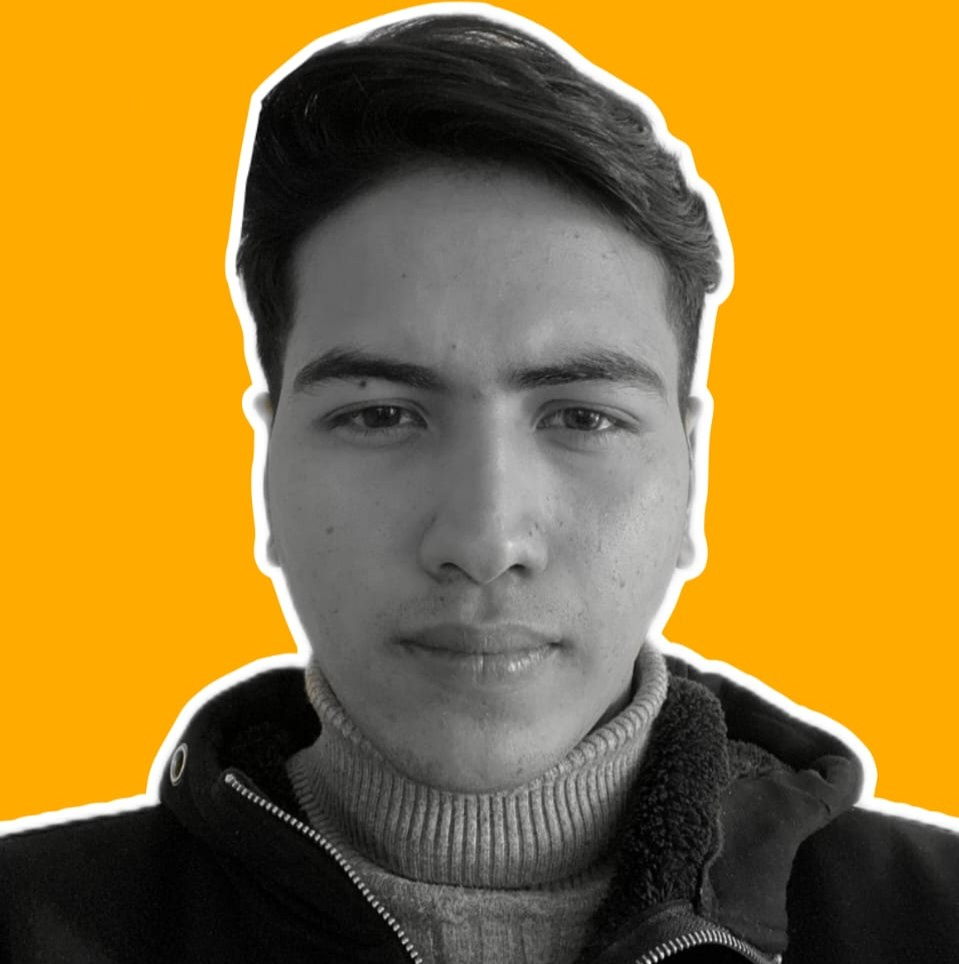
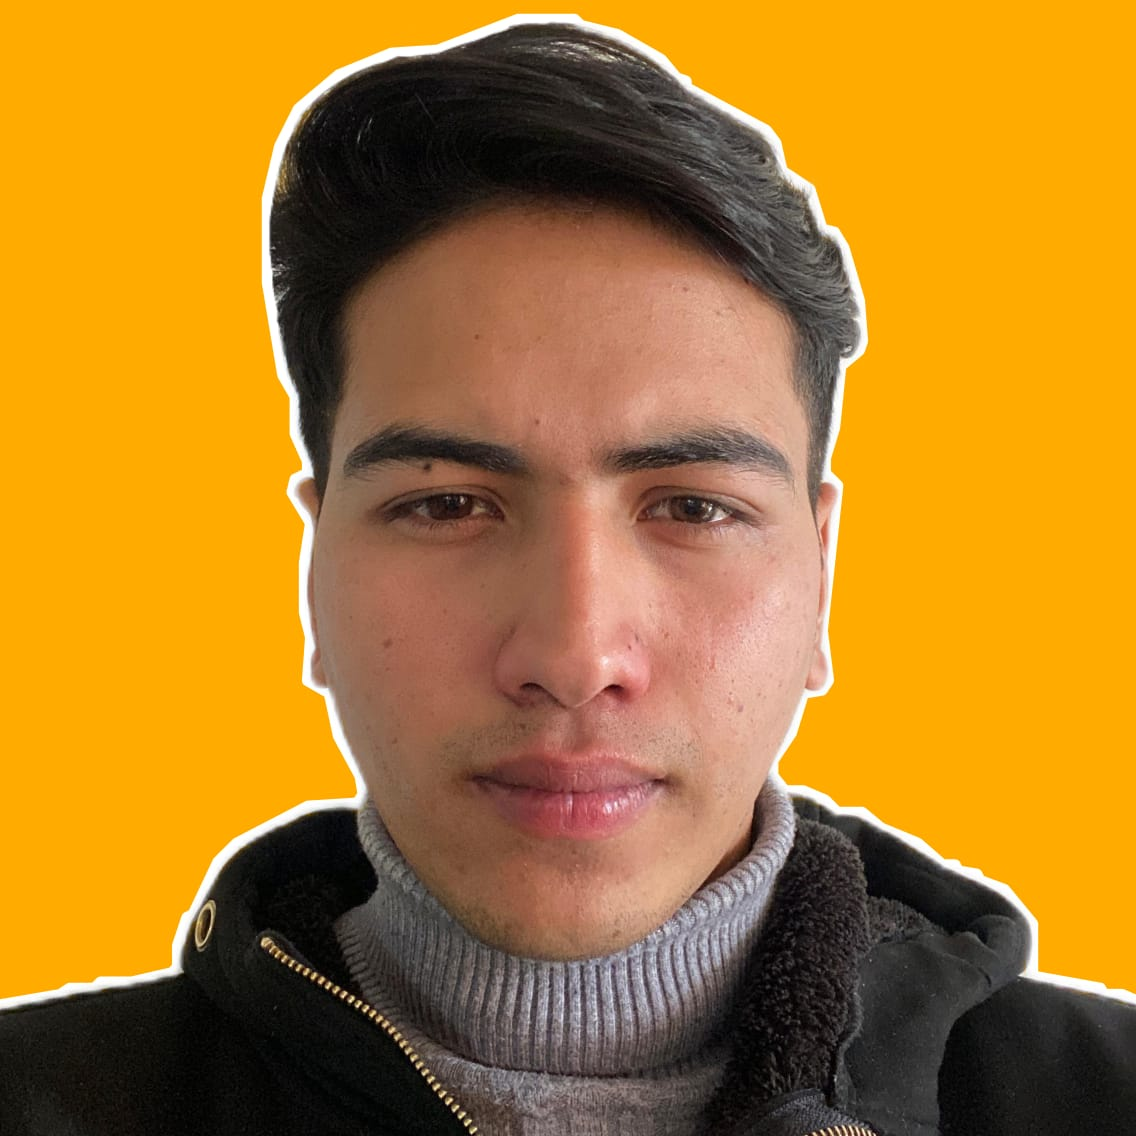
completed homepage

diff --git a/src/Components/Navbar.jsx b/src/Components/Navbar.jsx
@@ -4,7 +4,9 @@ import { NavLink } from "react-router-dom";
 export default function Navbar() {
   return (
     <div className="flex px-10 py-8 justify-between items-center">
-      <h1 className="font-bold text-xl">Dikshit.dev</h1>
+      <h1 className="font-bold text-xl flex">
+        Dikshit <span className="text-rose-500">.dev</span>
+      </h1>
       <nav className="flex gap-6 text-zinc-500">
         <NavLink
           to="/"
@@ -13,14 +15,6 @@ export default function Navbar() {
           }
         >
           Home
-        </NavLink>
-        <NavLink
-          to="/about"
-          className={({ isActive }) =>
-            `${isActive ? "font-semibold text-black" : ""}`
-          }
-        >
-          About
         </NavLink>
         <NavLink
           to="/projects"
@@ -37,7 +31,7 @@ export default function Navbar() {
             `${isActive ? "font-semibold text-black" : ""}`
           }
         >
-          Contacts
+          Contact
         </NavLink>
       </nav>
     </div>

diff --git a/src/Components/Hero.jsx b/src/Components/Hero.jsx
@@ -1,7 +1,7 @@
 import React from "react";
 import { FaLinkedin } from "react-icons/fa";
 import { FaGithub } from "react-icons/fa";
-import profile from "../assets/profile.jpeg";
+import profile from "../assets/Profile.jpeg";
 import { FaHtml5 } from "react-icons/fa";
 import { FaCss3Alt } from "react-icons/fa";
 import { FaJs } from "react-icons/fa";
@@ -19,7 +19,7 @@ export default function Hero() {
           </div>
           <div className="py-7 text-zinc-500 text-[19px]">
             <p>Hi, I'm Dikshit Shrestha. A passionate Front-end React</p>
-            <p>Developer based in Bode, Bhaktapur.</p>
+            <p>Developer based in Teku, Kathmandu.</p>
           </div>
           <div className="flex text-3xl gap-2">
             <a

diff --git a/src/App.jsx b/src/App.jsx
@@ -2,7 +2,6 @@ import React from "react";
 import { BrowserRouter as Router, Routes, Route } from "react-router-dom";
 import Hero from "./Components/Hero";
 import Navbar from "./Components/Navbar";
-import About from "./Components/About";
 import Projects from "./Components/Projects";
 import Contact from "./Components/Contact";
 
@@ -12,7 +11,6 @@ export default function App() {
       <Navbar />
       <Routes>
         <Route path="/" element={<Hero />} />
-        <Route path="/about" element={<About />} />
         <Route path="/projects" element={<Projects />} />
         <Route path="/contact" element={<Contact />} />
       </Routes>

diff --git a/src/Components/Projects.jsx b/src/Components/Projects.jsx
@@ -3,7 +3,12 @@ import React from "react";
 export default function Projects() {
   return (
     <div>
-      <div>this projects page</div>
+      <div>
+        <div>
+          <img src="" alt="" />
+        </div>
+        <div></div>
+      </div>
     </div>
   );
 }
